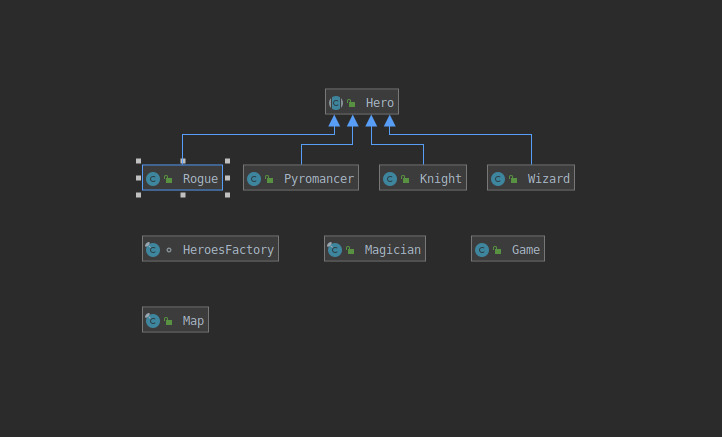
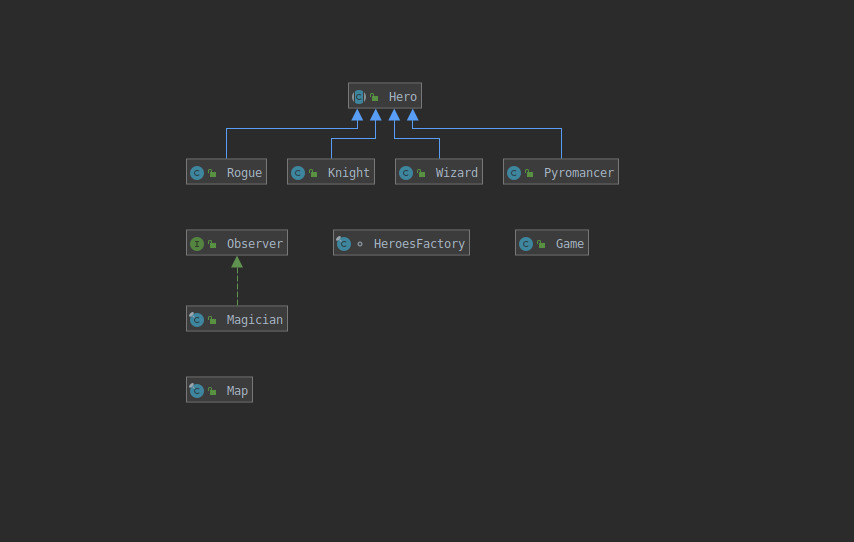
last version

diff --git a/game/Magician.java b/game/Magician.java
@@ -7,32 +7,37 @@ import angels.AngelVisitor;
  * cat si comportamentul sau, acesta fiind notificat in mod constant cu
  * anumite detalii despre desfasurarea jocului.
  */
-public final class Magician {
+public final class Magician implements Observer {
     private static Magician magician = new Magician();
 
     private Magician() { }
 
+    @Override
     public void updateAngelPosition(final AngelVisitor angelVisitor) {
         System.out.println("Angel " + angelVisitor.getName() + " was spawned at "
                 + angelVisitor.getX() + " " + angelVisitor.getY());
     }
 
-    void updateHeroPowers(final AngelVisitor angelVisitor, final Hero hero,
+    @Override
+    public void updateHeroPowers(final AngelVisitor angelVisitor, final Hero hero,
                           final String verb, final int i) {
         System.out.println(angelVisitor.getName() + " " + verb + hero.getName() + " " + i);
     }
 
-    void updateHeroKilledByAnAngel(final Hero hero, final int i) {
+    @Override
+    public void updateHeroKilledByAnAngel(final Hero hero, final int i) {
         System.out.println("Player " + hero.getName() + " " + i + " was killed by an angel");
     }
 
-    void updateHeroKilledByAHero(final Hero firstHero, final Hero secondHero,
+    @Override
+    public void updateHeroKilledByAHero(final Hero firstHero, final Hero secondHero,
                                  final int i, final int j) {
         System.out.println("Player " + firstHero.getName() + " " + i + " was killed by "
                 + secondHero.getName() + " " + j);
     }
 
-    void updateHeroBroughtToLifeByAnAngel(final Hero hero, final int i) {
+    @Override
+    public void updateHeroBroughtToLifeByAnAngel(final Hero hero, final int i) {
         System.out.println("Player " + hero.getName() + " " + i
                 + " was brought to life by an angel");
     }

diff --git a/game/Observer.java b/game/Observer.java
@@ -1,0 +1,13 @@
+package game;
+
+import angels.AngelVisitor;
+
+interface Observer {
+    void updateAngelPosition(AngelVisitor angelVisitor);
+    void updateHeroPowers(AngelVisitor angelVisitor, Hero hero,
+                          String verb, int i);
+    void updateHeroKilledByAnAngel(Hero hero, int i);
+    void updateHeroKilledByAHero(Hero firstHero, Hero secondHero,
+                                 int i, int j);
+    void updateHeroBroughtToLifeByAnAngel(Hero hero, int i);
+}
